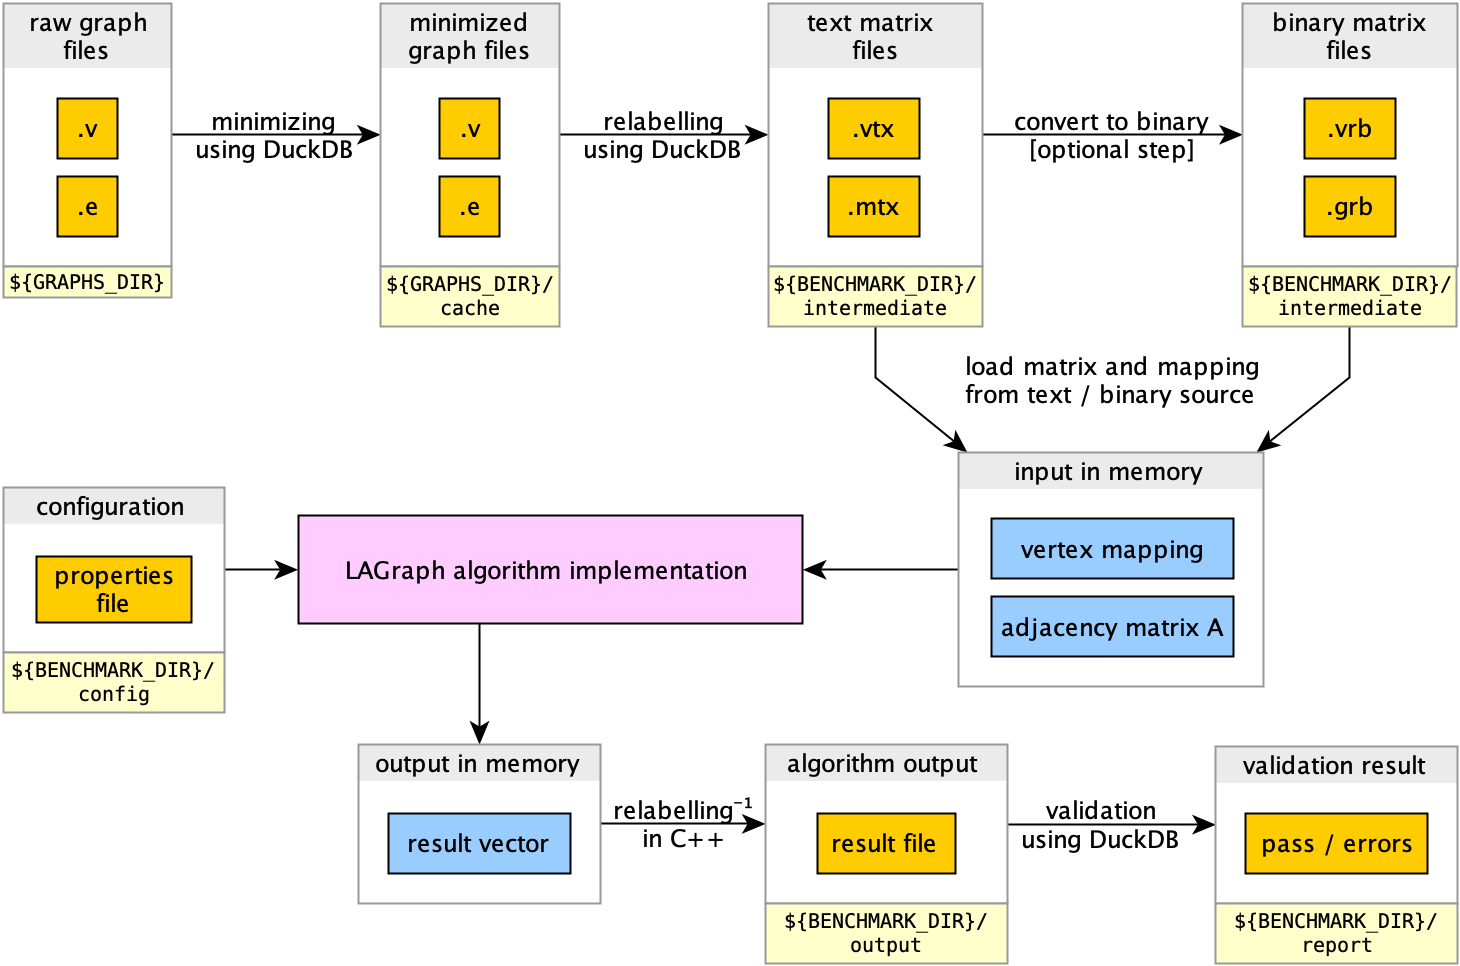
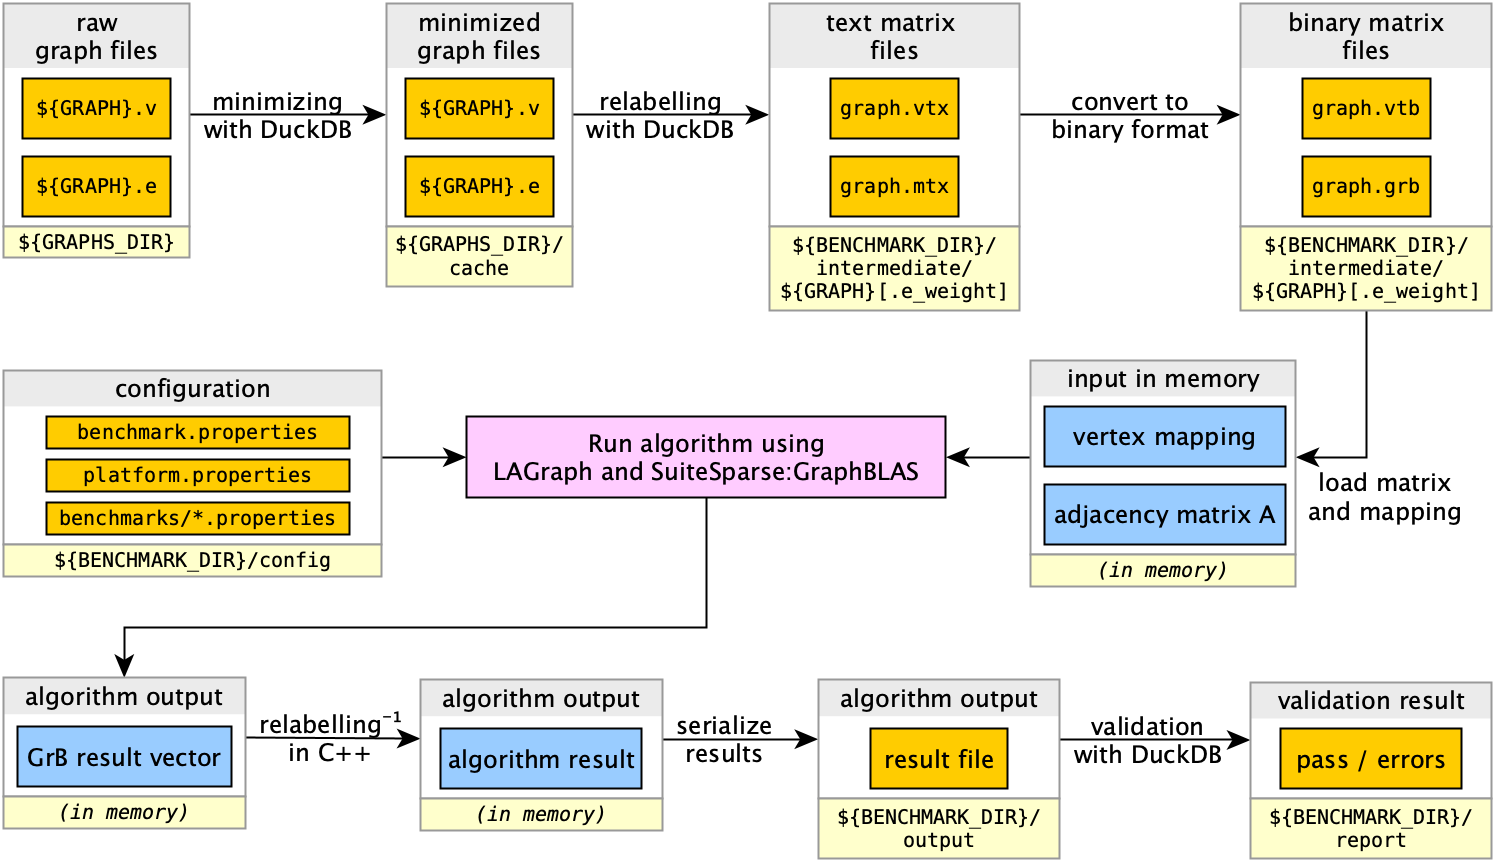
Update workflow figure and explanation

diff --git a/README.md b/README.md
@@ -95,7 +95,7 @@ bin/sh/build-wrapper-only.sh
 
 ### Workflow
 
-The workflow of the GraphBLAS implementation is illustrated in the following figure:
+The workflow of the GraphBLAS implementation is illustrated in the following figure. Note that the "raw graph files" and the "configuration" are provided by the user, while the rest of the data artifacts (intermediate data sets, outputs, etc.) are created automatically by the framework.
 
 ![Workflow of the GraphBLAS implementation](workflow.png)
 
